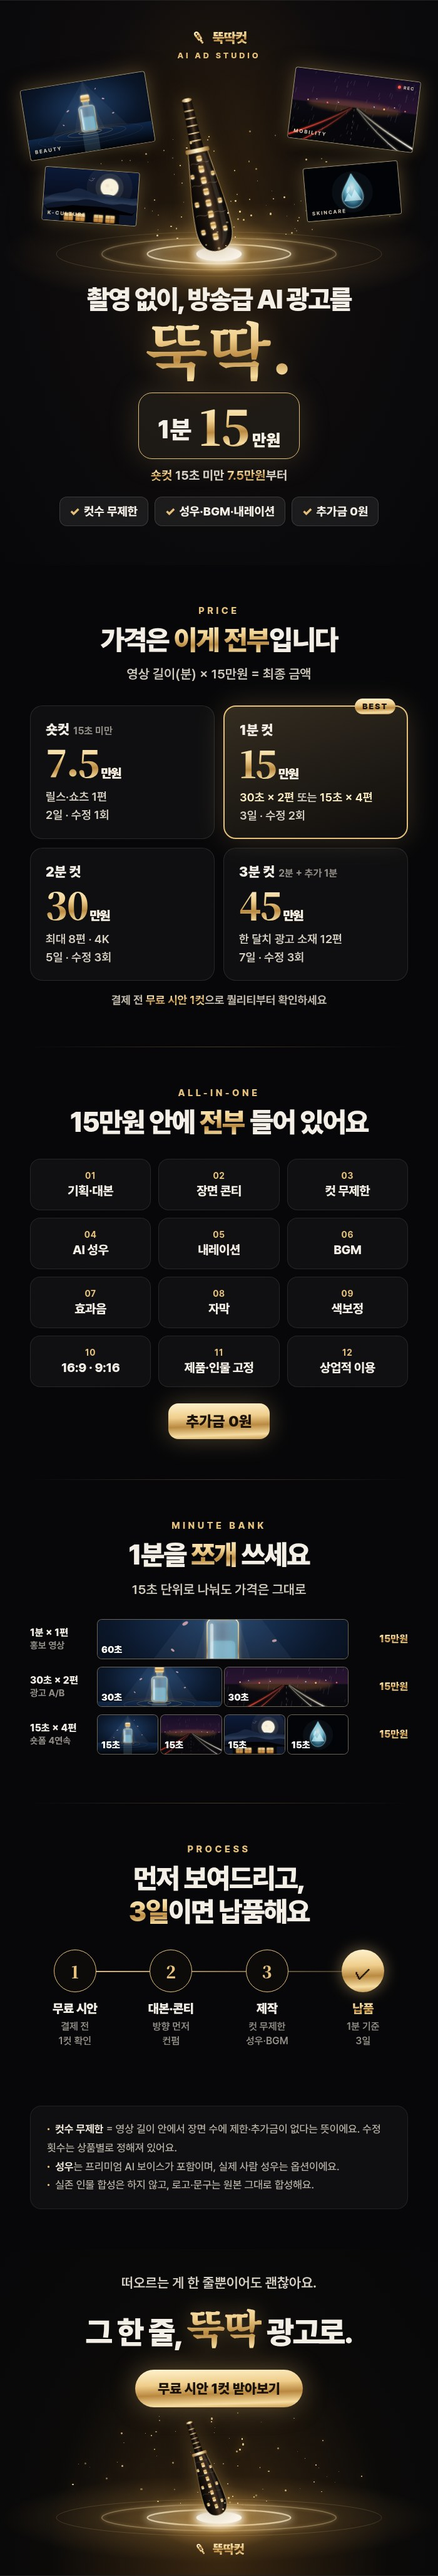
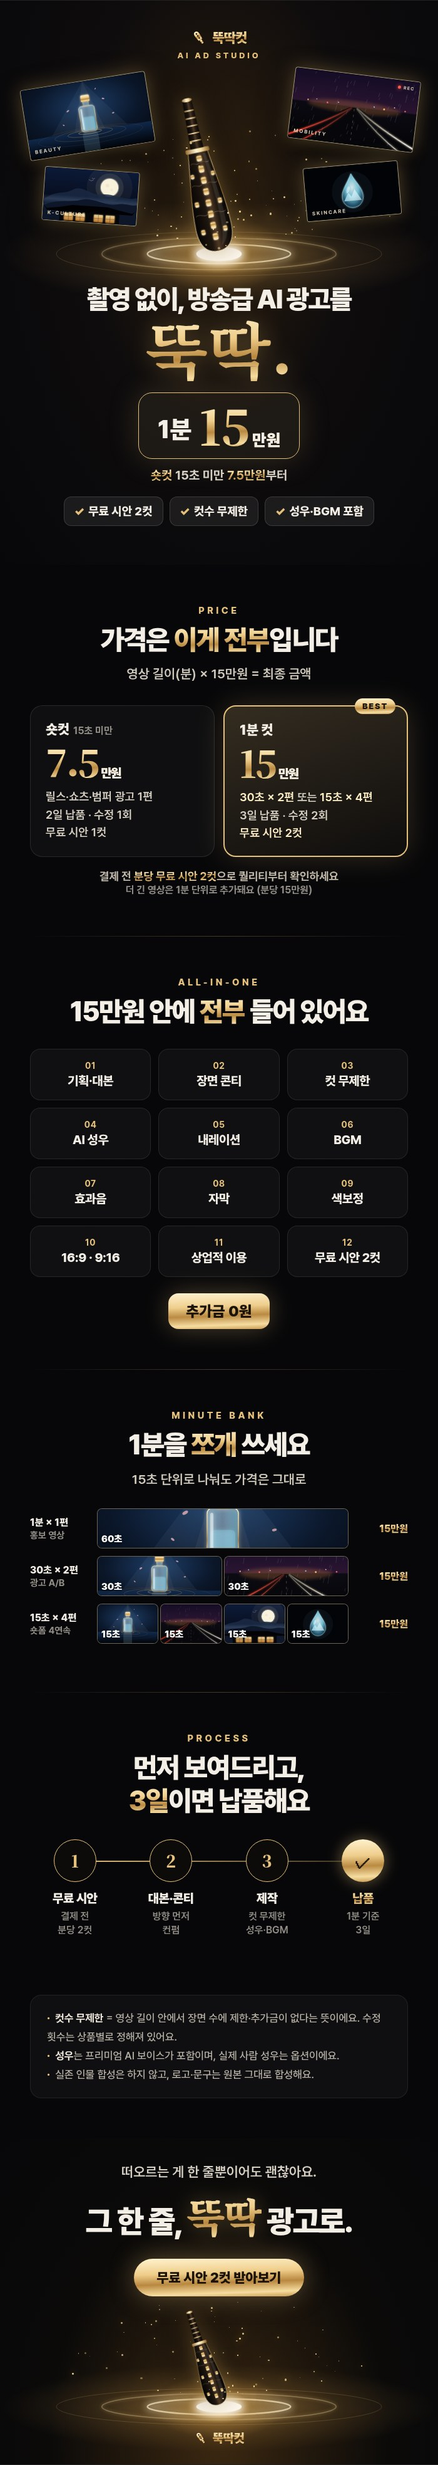
Show only short-cut and 1-minute prices; free samples 2 cuts per minute
Claude-Session: https://claude.ai/code/session_01HW1qVnBzebQH8eHGAx3Xdw

diff --git a/kmong-studio/assets/src/index.html b/kmong-studio/assets/src/index.html
@@ -257,20 +257,14 @@ table.opt small { color: var(--mute); font-weight: 500; margin-left: 6px; font-s
 
 <!-- ================= THUMB PACKAGES ================= -->
 <section class="board thumb st grain" id="thumb-packages">
-  <div class="top"><div class="logo"><svg><use href="#mark"/></svg><span class="gold">뚝딱컷</span></div><span class="eyebrow">15초 미만 7.5만 · 1분 15만</span></div>
-  <div class="cols">
-    <div class="col"><div class="mn">숏컷</div><div class="pr num gold">7.5<small>만원</small></div>
-      <div class="split">15초 미만<br>1편</div>
-      <ul><li>수정 1회</li><li>2일 납품</li><li>릴스·범퍼</li></ul></div>
-    <div class="col best"><span class="badge">BEST</span><div class="mn">1분 컷</div><div class="pr num gold">15<small>만원</small></div>
-      <div class="split">30초 × 2편<br>15초 × 4편</div>
-      <ul><li>수정 2회</li><li>3일 납품</li><li>시안 1컷</li></ul></div>
-    <div class="col"><div class="mn">2분 컷</div><div class="pr num gold">30<small>만원</small></div>
-      <div class="split">최대 8편<br>편별 훅 설계</div>
-      <ul><li>수정 3회</li><li>5일 납품</li><li>4K · 시안 2컷</li></ul></div>
-    <div class="col"><div class="mn">3분 컷</div><div class="pr num gold">45<small>만원</small></div>
-      <div class="split">한 달치 소재<br>최대 12편</div>
-      <ul><li>2분 + 추가 1분</li><li>7일 납품</li><li>4K · 시안 2컷</li></ul></div>
+  <div class="top"><div class="logo"><svg><use href="#mark"/></svg><span class="gold">뚝딱컷</span></div><span class="eyebrow">분당 15만원</span></div>
+  <div class="cols" style="gap:14px;top:104px">
+    <div class="col" style="padding:24px 24px 20px"><div class="mn" style="font-size:20px">숏컷 <span style="font-size:14px;color:var(--mute)">15초 미만</span></div><div class="pr num gold" style="font-size:64px">7.5<small style="font-size:18px">만원</small></div>
+      <div class="split" style="font-size:15px">릴스·쇼츠·범퍼 1편</div>
+      <ul style="font-size:14px"><li>2일 납품 · 수정 1회</li><li>무료 시안 1컷</li></ul></div>
+    <div class="col best" style="padding:24px 24px 20px"><span class="badge">BEST</span><div class="mn" style="font-size:20px">1분 컷</div><div class="pr num gold" style="font-size:64px">15<small style="font-size:18px">만원</small></div>
+      <div class="split" style="font-size:15px">30초 × 2편 또는 15초 × 4편</div>
+      <ul style="font-size:14px"><li>3일 납품 · 수정 2회</li><li>무료 시안 2컷</li></ul></div>
   </div>
   <div class="foot"><span>전 패키지 컷수 무제한</span><span>AI 성우·내레이션</span><span>BGM·효과음·자막</span></div>
 </section>
@@ -469,7 +463,7 @@ table.opt small { color: var(--mute); font-weight: 500; margin-left: 6px; font-s
       <div class="tt serif gold glow">뚝딱.</div>
       <div class="pr"><span class="m">1분</span><span class="w gold">15<small>만원</small></span></div>
       <div class="sc"><span class="gold">숏컷</span> 15초 미만 <span class="gold">7.5만원</span>부터</div>
-      <div class="chips"><span><b>✓</b>컷수 무제한</span><span><b>✓</b>성우·BGM·내레이션</span><span><b>✓</b>추가금 0원</span></div>
+      <div class="chips"><span><b>✓</b>무료 시안 2컷</span><span><b>✓</b>컷수 무제한</span><span><b>✓</b>성우·BGM 포함</span></div>
     </div>
   </div>
 
@@ -478,12 +472,10 @@ table.opt small { color: var(--mute); font-weight: 500; margin-left: 6px; font-s
     <div class="ttl">가격은 <span class="gold">이게 전부</span>입니다</div>
     <div class="sub">영상 길이(분) × 15만원 = 최종 금액</div>
     <div class="grid2">
-      <div class="pc"><div class="n">숏컷<small>15초 미만</small></div><div class="p gold">7.5<small>만원</small></div><div class="d">릴스·쇼츠 1편<br>2일 · 수정 1회</div></div>
-      <div class="pc best"><span class="bd">BEST</span><div class="n">1분 컷</div><div class="p gold">15<small>만원</small></div><div class="d"><em>30초 × 2편</em> 또는 <em>15초 × 4편</em><br>3일 · 수정 2회</div></div>
-      <div class="pc"><div class="n">2분 컷</div><div class="p gold">30<small>만원</small></div><div class="d">최대 8편 · 4K<br>5일 · 수정 3회</div></div>
-      <div class="pc"><div class="n">3분 컷<small>2분 + 추가 1분</small></div><div class="p gold">45<small>만원</small></div><div class="d">한 달치 광고 소재 12편<br>7일 · 수정 3회</div></div>
+      <div class="pc"><div class="n">숏컷<small>15초 미만</small></div><div class="p gold">7.5<small>만원</small></div><div class="d">릴스·쇼츠·범퍼 광고 1편<br>2일 납품 · 수정 1회<br>무료 시안 1컷</div></div>
+      <div class="pc best"><span class="bd">BEST</span><div class="n">1분 컷</div><div class="p gold">15<small>만원</small></div><div class="d"><em>30초 × 2편</em> 또는 <em>15초 × 4편</em><br>3일 납품 · 수정 2회<br><em>무료 시안 2컷</em></div></div>
     </div>
-    <div class="note">결제 전 <span class="gold">무료 시안 1컷</span>으로 퀄리티부터 확인하세요</div>
+    <div class="note">결제 전 <span class="gold">분당 무료 시안 2컷</span>으로 퀄리티부터 확인하세요<br><span style="font-size:16px;color:var(--mute)">더 긴 영상은 1분 단위로 추가돼요 (분당 15만원)</span></div>
   </div>
   <div class="sep"></div>
 
@@ -494,7 +486,7 @@ table.opt small { color: var(--mute); font-weight: 500; margin-left: 6px; font-s
       <div><i>01</i>기획·대본</div><div><i>02</i>장면 콘티</div><div><i>03</i>컷 무제한</div>
       <div><i>04</i>AI 성우</div><div><i>05</i>내레이션</div><div><i>06</i>BGM</div>
       <div><i>07</i>효과음</div><div><i>08</i>자막</div><div><i>09</i>색보정</div>
-      <div><i>10</i>16:9 · 9:16</div><div><i>11</i>제품·인물 고정</div><div><i>12</i>상업적 이용</div>
+      <div><i>10</i>16:9 · 9:16</div><div><i>11</i>상업적 이용</div><div><i>12</i>무료 시안 2컷</div>
     </div>
     <div class="zero">추가금 0원</div>
   </div>
@@ -512,7 +504,7 @@ table.opt small { color: var(--mute); font-weight: 500; margin-left: 6px; font-s
     <div class="kick">PROCESS</div>
     <div class="ttl">먼저 보여드리고,<br><span class="gold">3일</span>이면 납품해요</div>
     <div class="steps">
-      <div class="st1"><div class="c">1</div><b>무료 시안</b><span>결제 전<br>1컷 확인</span></div>
+      <div class="st1"><div class="c">1</div><b>무료 시안</b><span>결제 전<br>분당 2컷</span></div>
       <div class="st1"><div class="c">2</div><b>대본·콘티</b><span>방향 먼저<br>컨펌</span></div>
       <div class="st1"><div class="c">3</div><b>제작</b><span>컷 무제한<br>성우·BGM</span></div>
       <div class="st1 last"><div class="c">✓</div><b class="gold">납품</b><span>1분 기준<br>3일</span></div>
@@ -531,7 +523,7 @@ table.opt small { color: var(--mute); font-weight: 500; margin-left: 6px; font-s
     <div class="abs" style="left:0;right:0;top:40px;z-index:6">
       <div style="font-size:22px;color:#d8d1c5;font-weight:600">떠오르는 게 한 줄뿐이어도 괜찮아요.</div>
       <div style="font-size:50px;font-weight:900;letter-spacing:-.04em;margin-top:10px">그 한 줄, <span class="gold serif glow" style="font-size:64px">뚝딱</span> 광고로.</div>
-      <div style="margin-top:24px;display:inline-block;font-size:22px;font-weight:900;color:#1a1206;background:var(--gold-grad);padding:17px 36px;border-radius:999px;box-shadow:0 0 40px rgba(230,192,122,.35)">무료 시안 1컷 받아보기</div>
+      <div style="margin-top:24px;display:inline-block;font-size:22px;font-weight:900;color:#1a1206;background:var(--gold-grad);padding:17px 36px;border-radius:999px;box-shadow:0 0 40px rgba(230,192,122,.35)">무료 시안 2컷 받아보기</div>
     </div>
     <div class="abs" style="left:0;right:0;bottom:30px;z-index:6"><div class="logo" style="justify-content:center;font-size:20px"><svg><use href="#mark"/></svg><span class="gold">뚝딱컷</span></div></div>
   </div>

diff --git a/kmong-studio/claude-project/뚝딱컷_운영본부_전체.md b/kmong-studio/claude-project/뚝딱컷_운영본부_전체.md
@@ -275,7 +275,9 @@ A/B 대안 (2주마다 교체해 클릭률 비교):
 
 ## 4. 패키지 3단계 (크몽 폼은 3개까지 → 3분은 옵션 조합)
 
-**가격 사다리 (상세페이지·썸네일 표기):**
+**가격 표기 원칙 (2026-09 수정):** 썸네일·상세페이지에는 **숏컷 7.5만원 · 1분 15만원 두 가지만** 표기하고, 더 긴 영상은 "1분 단위 추가(분당 15만원)"로만 안내합니다. 2분·3분 가격은 이미지에 넣지 않습니다. 크몽 폼이 패키지 3개를 요구하면 PREMIUM 칸에 2분 컷을 두되, 대표 노출은 1분 컷(★)입니다.
+
+**가격 사다리 (내부 기준):**
 
 | 상품 | 가격 | 구성 |
 |---|---|---|
@@ -295,7 +297,7 @@ A/B 대안 (2주마다 교체해 클릭률 비교):
 | AI 성우 내레이션 + 대본 | ○ | ○ | ○ |
 | BGM · 효과음 · 자막 | ○ | ○ | ○ |
 | 비율 | 16:9 / 9:16 택1 | 16:9 / 9:16 택1 | 편마다 16:9 / 9:16 / 1:1 선택 |
-| 결제 전 무료 시안 | 1컷 | 1컷 | 2컷 |
+| 결제 전 무료 시안 (분당 2컷) | 1컷 | 2컷 | 4컷 |
 | 일관성 바이블 (제품·인물 고정) | ○ | ○ | ○ |
 | 해상도 | FHD | FHD | FHD + 4K 업스케일 |
 | 수정 | 1회 | 2회 | 3회 |
@@ -313,11 +315,11 @@ STANDARD — 숏컷
 ```
 DELUXE — 1분 컷
 ```
-AI 광고 영상 총 1분. 컷수 무제한, AI 성우 내레이션·대본·BGM·효과음·자막 전부 포함. 15초 단위로 최대 4편까지 나눠 제작 가능. 결제 전 무료 시안 1컷. 수정 2회.
+AI 광고 영상 총 1분. 컷수 무제한, AI 성우 내레이션·대본·BGM·효과음·자막 전부 포함. 15초 단위로 최대 4편까지 나눠 제작 가능. 결제 전 무료 시안 2컷. 수정 2회.
 ```
 PREMIUM — 2분 컷
 ```
-AI 광고 영상 총 2분. 컷수 무제한, AI 성우·대본·BGM·효과음·자막 전부 포함. 최대 8편 분할, 편별 훅 설계, 편마다 비율 선택, 4K 업스케일. 무료 시안 2컷. 수정 3회.
+AI 광고 영상 총 2분. 컷수 무제한, AI 성우·대본·BGM·효과음·자막 전부 포함. 최대 8편 분할, 편별 훅 설계, 편마다 비율 선택, 4K 업스케일. 무료 시안 4컷. 수정 3회.
 ```
 
 ## 5. 추가 옵션
@@ -1340,7 +1342,7 @@ Extreme macro, locked-off camera. In pure darkness, the glowing water droplet fr
 
 ### #2 · 0:03–0:07 · 물방울 속으로 → 빙하 협곡
 - **모드:** Frames to Video (**첫 + 끝 프레임**)
-- **첫 프레임:** #1 영상의 한 장면 캡처 (물방울이 화면 중앙에 크게 있는 프레임)
+- **첫 프레임:** #1 영상을 **역재생한 뒤의 마지막 장면** = 원본 #1 영상의 **0초 프레임** (물방울이 화면 정중앙). 추출본: `portfolio/frames/FILM01_컷2_첫프레임.jpg`
 - **끝 프레임 이미지:**
 ```
 Epic aerial view flying low over an immense blue glacier canyon at dawn, towering walls of translucent turquoise ice, soft golden sunrise haze drifting through the canyon.

diff --git a/kmong-studio/chrome/크몽_입점_작업지시서.md b/kmong-studio/chrome/크몽_입점_작업지시서.md
@@ -276,7 +276,9 @@ A/B 대안 (2주마다 교체해 클릭률 비교):
 
 ## 4. 패키지 3단계 (크몽 폼은 3개까지 → 3분은 옵션 조합)
 
-**가격 사다리 (상세페이지·썸네일 표기):**
+**가격 표기 원칙 (2026-09 수정):** 썸네일·상세페이지에는 **숏컷 7.5만원 · 1분 15만원 두 가지만** 표기하고, 더 긴 영상은 "1분 단위 추가(분당 15만원)"로만 안내합니다. 2분·3분 가격은 이미지에 넣지 않습니다. 크몽 폼이 패키지 3개를 요구하면 PREMIUM 칸에 2분 컷을 두되, 대표 노출은 1분 컷(★)입니다.
+
+**가격 사다리 (내부 기준):**
 
 | 상품 | 가격 | 구성 |
 |---|---|---|
@@ -296,7 +298,7 @@ A/B 대안 (2주마다 교체해 클릭률 비교):
 | AI 성우 내레이션 + 대본 | ○ | ○ | ○ |
 | BGM · 효과음 · 자막 | ○ | ○ | ○ |
 | 비율 | 16:9 / 9:16 택1 | 16:9 / 9:16 택1 | 편마다 16:9 / 9:16 / 1:1 선택 |
-| 결제 전 무료 시안 | 1컷 | 1컷 | 2컷 |
+| 결제 전 무료 시안 (분당 2컷) | 1컷 | 2컷 | 4컷 |
 | 일관성 바이블 (제품·인물 고정) | ○ | ○ | ○ |
 | 해상도 | FHD | FHD | FHD + 4K 업스케일 |
 | 수정 | 1회 | 2회 | 3회 |
@@ -314,11 +316,11 @@ STANDARD — 숏컷
 ```
 DELUXE — 1분 컷
 ```
-AI 광고 영상 총 1분. 컷수 무제한, AI 성우 내레이션·대본·BGM·효과음·자막 전부 포함. 15초 단위로 최대 4편까지 나눠 제작 가능. 결제 전 무료 시안 1컷. 수정 2회.
+AI 광고 영상 총 1분. 컷수 무제한, AI 성우 내레이션·대본·BGM·효과음·자막 전부 포함. 15초 단위로 최대 4편까지 나눠 제작 가능. 결제 전 무료 시안 2컷. 수정 2회.
 ```
 PREMIUM — 2분 컷
 ```
-AI 광고 영상 총 2분. 컷수 무제한, AI 성우·대본·BGM·효과음·자막 전부 포함. 최대 8편 분할, 편별 훅 설계, 편마다 비율 선택, 4K 업스케일. 무료 시안 2컷. 수정 3회.
+AI 광고 영상 총 2분. 컷수 무제한, AI 성우·대본·BGM·효과음·자막 전부 포함. 최대 8편 분할, 편별 훅 설계, 편마다 비율 선택, 4K 업스케일. 무료 시안 4컷. 수정 3회.
 ```
 
 ## 5. 추가 옵션

diff --git a/kmong-studio/03_서비스_등록.md b/kmong-studio/03_서비스_등록.md
@@ -53,7 +53,9 @@ A/B 대안 (2주마다 교체해 클릭률 비교):
 
 ## 4. 패키지 3단계 (크몽 폼은 3개까지 → 3분은 옵션 조합)
 
-**가격 사다리 (상세페이지·썸네일 표기):**
+**가격 표기 원칙 (2026-09 수정):** 썸네일·상세페이지에는 **숏컷 7.5만원 · 1분 15만원 두 가지만** 표기하고, 더 긴 영상은 "1분 단위 추가(분당 15만원)"로만 안내합니다. 2분·3분 가격은 이미지에 넣지 않습니다. 크몽 폼이 패키지 3개를 요구하면 PREMIUM 칸에 2분 컷을 두되, 대표 노출은 1분 컷(★)입니다.
+
+**가격 사다리 (내부 기준):**
 
 | 상품 | 가격 | 구성 |
 |---|---|---|
@@ -73,7 +75,7 @@ A/B 대안 (2주마다 교체해 클릭률 비교):
 | AI 성우 내레이션 + 대본 | ○ | ○ | ○ |
 | BGM · 효과음 · 자막 | ○ | ○ | ○ |
 | 비율 | 16:9 / 9:16 택1 | 16:9 / 9:16 택1 | 편마다 16:9 / 9:16 / 1:1 선택 |
-| 결제 전 무료 시안 | 1컷 | 1컷 | 2컷 |
+| 결제 전 무료 시안 (분당 2컷) | 1컷 | 2컷 | 4컷 |
 | 일관성 바이블 (제품·인물 고정) | ○ | ○ | ○ |
 | 해상도 | FHD | FHD | FHD + 4K 업스케일 |
 | 수정 | 1회 | 2회 | 3회 |
@@ -91,11 +93,11 @@ STANDARD — 숏컷
 ```
 DELUXE — 1분 컷
 ```
-AI 광고 영상 총 1분. 컷수 무제한, AI 성우 내레이션·대본·BGM·효과음·자막 전부 포함. 15초 단위로 최대 4편까지 나눠 제작 가능. 결제 전 무료 시안 1컷. 수정 2회.
+AI 광고 영상 총 1분. 컷수 무제한, AI 성우 내레이션·대본·BGM·효과음·자막 전부 포함. 15초 단위로 최대 4편까지 나눠 제작 가능. 결제 전 무료 시안 2컷. 수정 2회.
 ```
 PREMIUM — 2분 컷
 ```
-AI 광고 영상 총 2분. 컷수 무제한, AI 성우·대본·BGM·효과음·자막 전부 포함. 최대 8편 분할, 편별 훅 설계, 편마다 비율 선택, 4K 업스케일. 무료 시안 2컷. 수정 3회.
+AI 광고 영상 총 2분. 컷수 무제한, AI 성우·대본·BGM·효과음·자막 전부 포함. 최대 8편 분할, 편별 훅 설계, 편마다 비율 선택, 4K 업스케일. 무료 시안 4컷. 수정 3회.
 ```
 
 ## 5. 추가 옵션

diff --git a/CLAUDE.md b/CLAUDE.md
@@ -24,4 +24,4 @@
 - 고객별 기록은 `kmong-studio/clients/<고객명>/`에 남깁니다 (`_TEMPLATE` 복사).
 - Claude는 크몽에 직접 로그인하거나 메시지를 보낼 수 없습니다. 사용자가 복사/붙여넣기로 중계합니다.
 - 스튜디오 이름은 **뚝딱컷**으로 확정입니다. 크몽 닉네임은 `뚝딱컷`이 이미 사용 중이라 **`뚝딱컷스튜디오`** 입니다. 다른 대화(예: claude.ai "ZEROCUT 크몽 사업" 프로젝트)에서 가져온 내용에 ZEROCUT이 나오면 뚝딱컷으로 바꿔서 통합합니다.
-- 가격 기준: 숏컷(15초 미만) 75,000원 · 1분 150,000원 · 컷수 무제한 · AI 성우·내레이션·BGM 포함 (`kmong-studio/03_서비스_등록.md`).
+- 가격 기준: 숏컷(15초 미만) 75,000원 · 1분 150,000원 (이미지엔 이 두 가지만, 2·3분 가격 미표기) · 무료 시안 분당 2컷 · 컷수 무제한 · AI 성우·내레이션·BGM 포함 (`kmong-studio/03_서비스_등록.md`).
